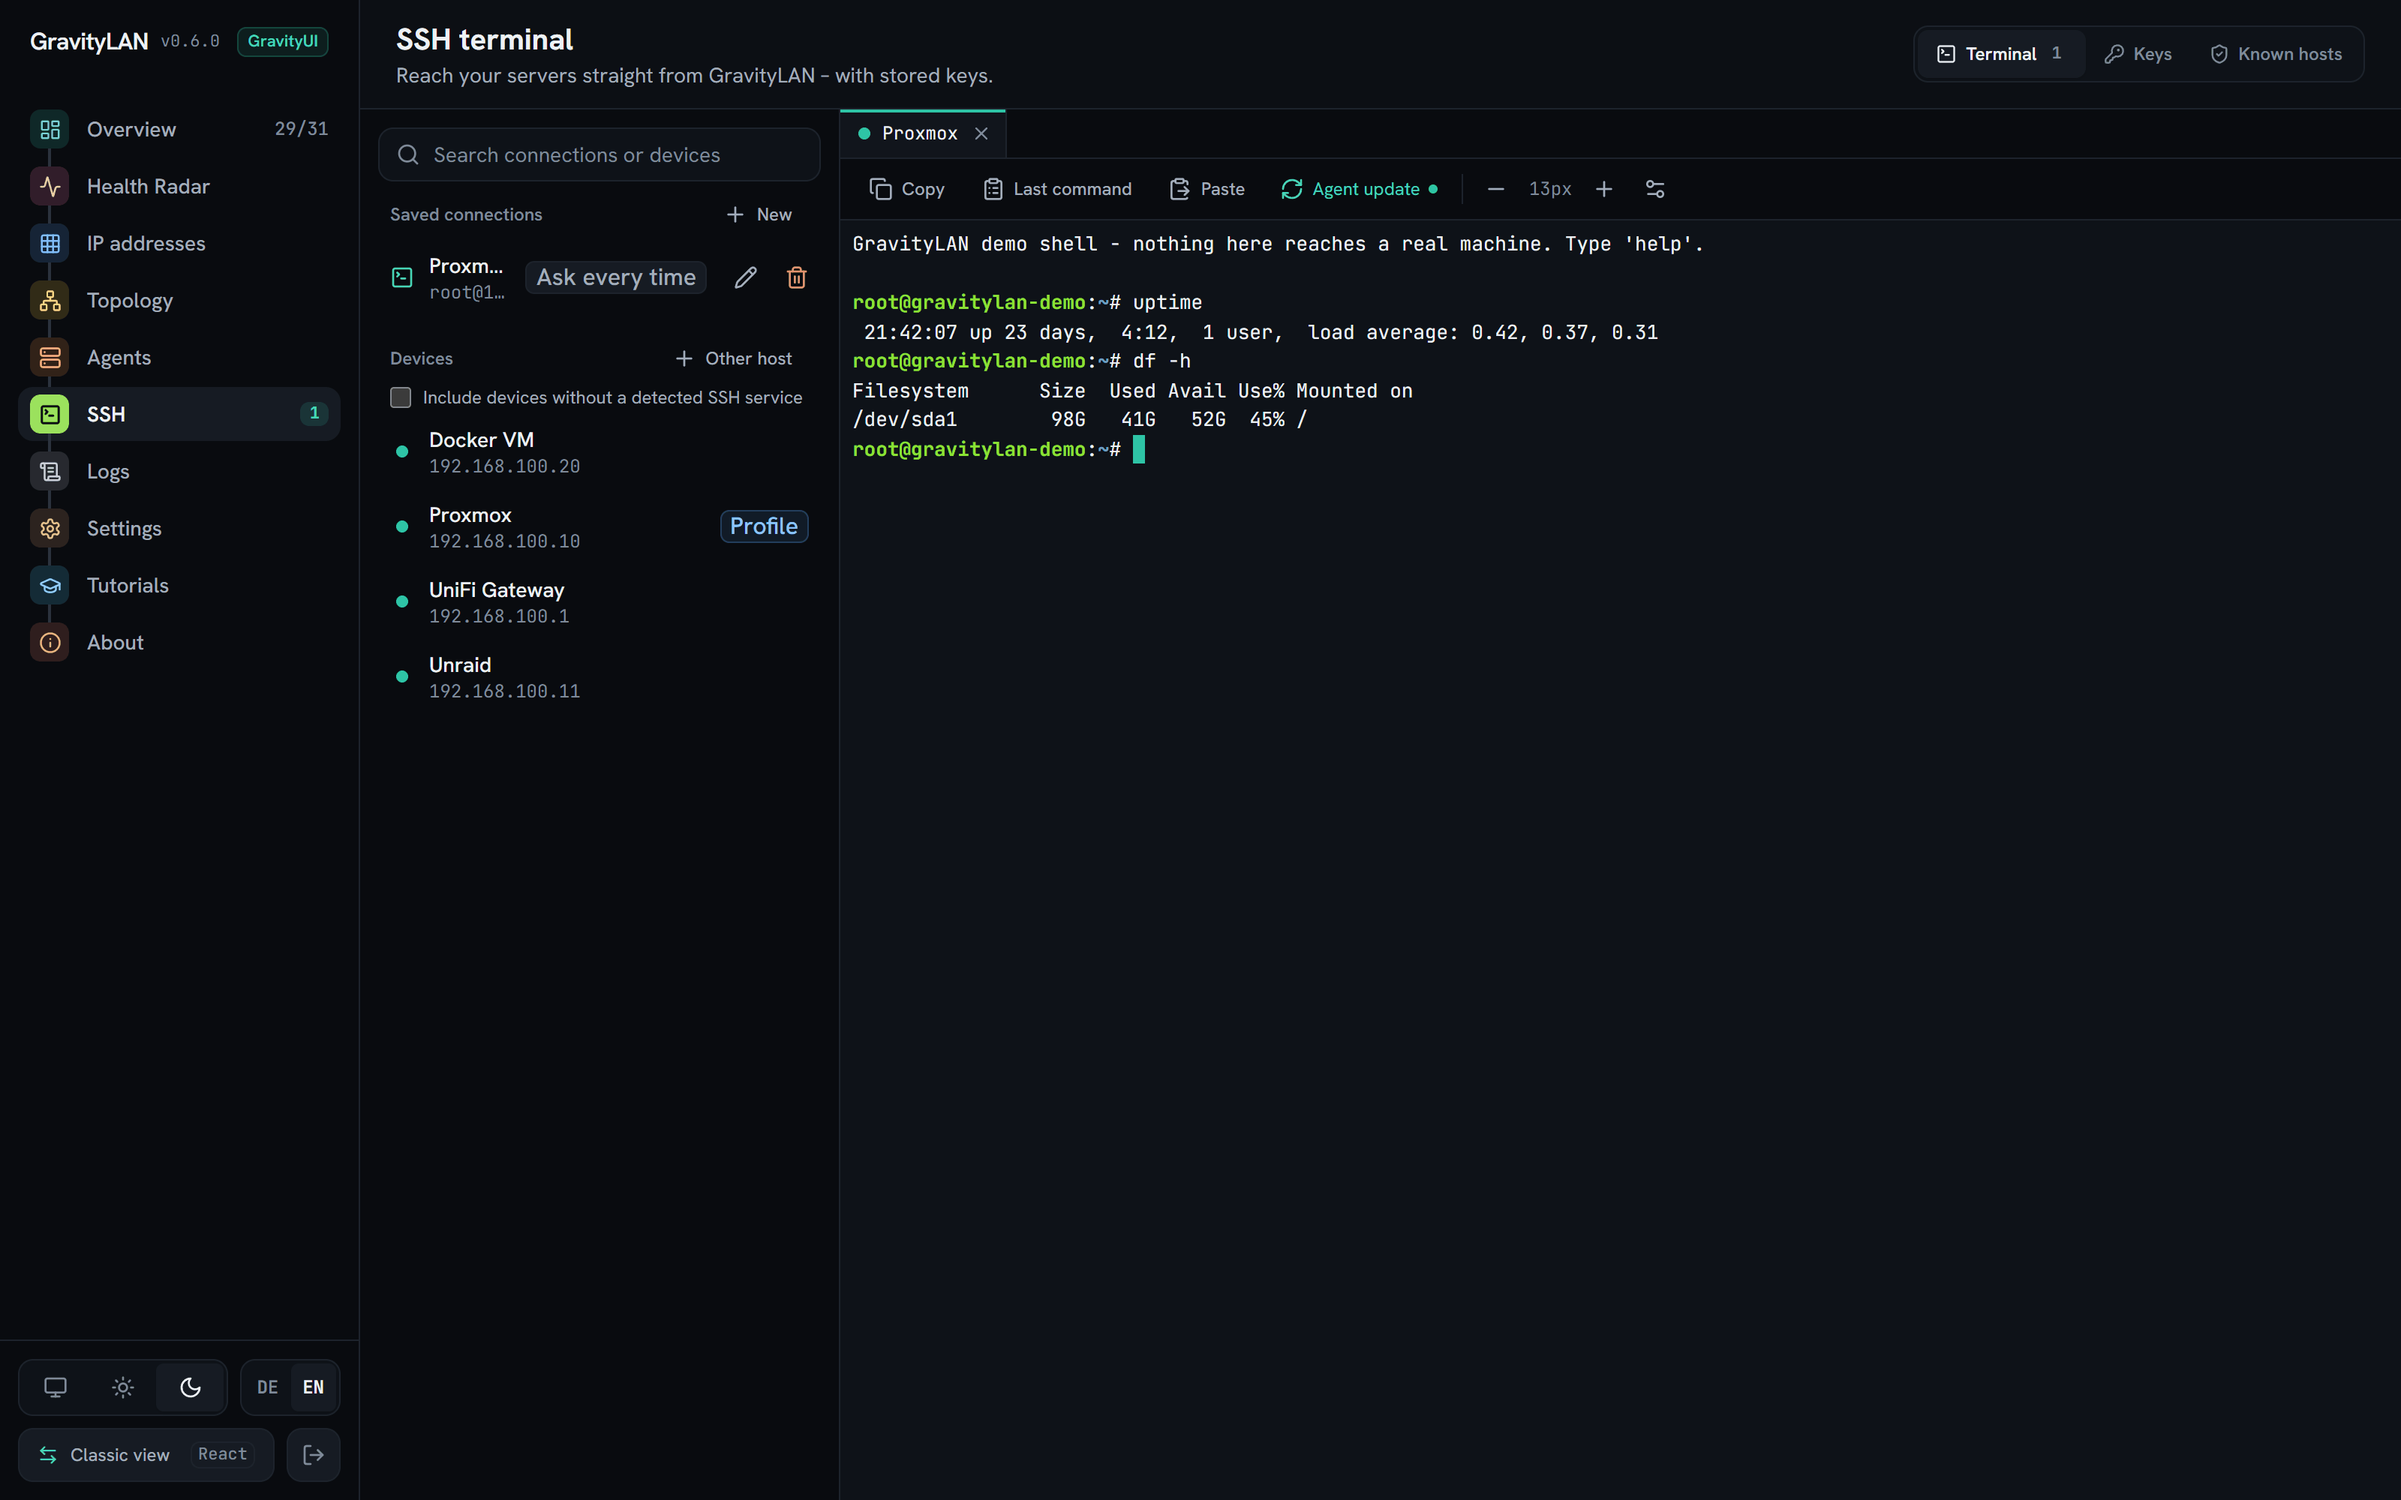
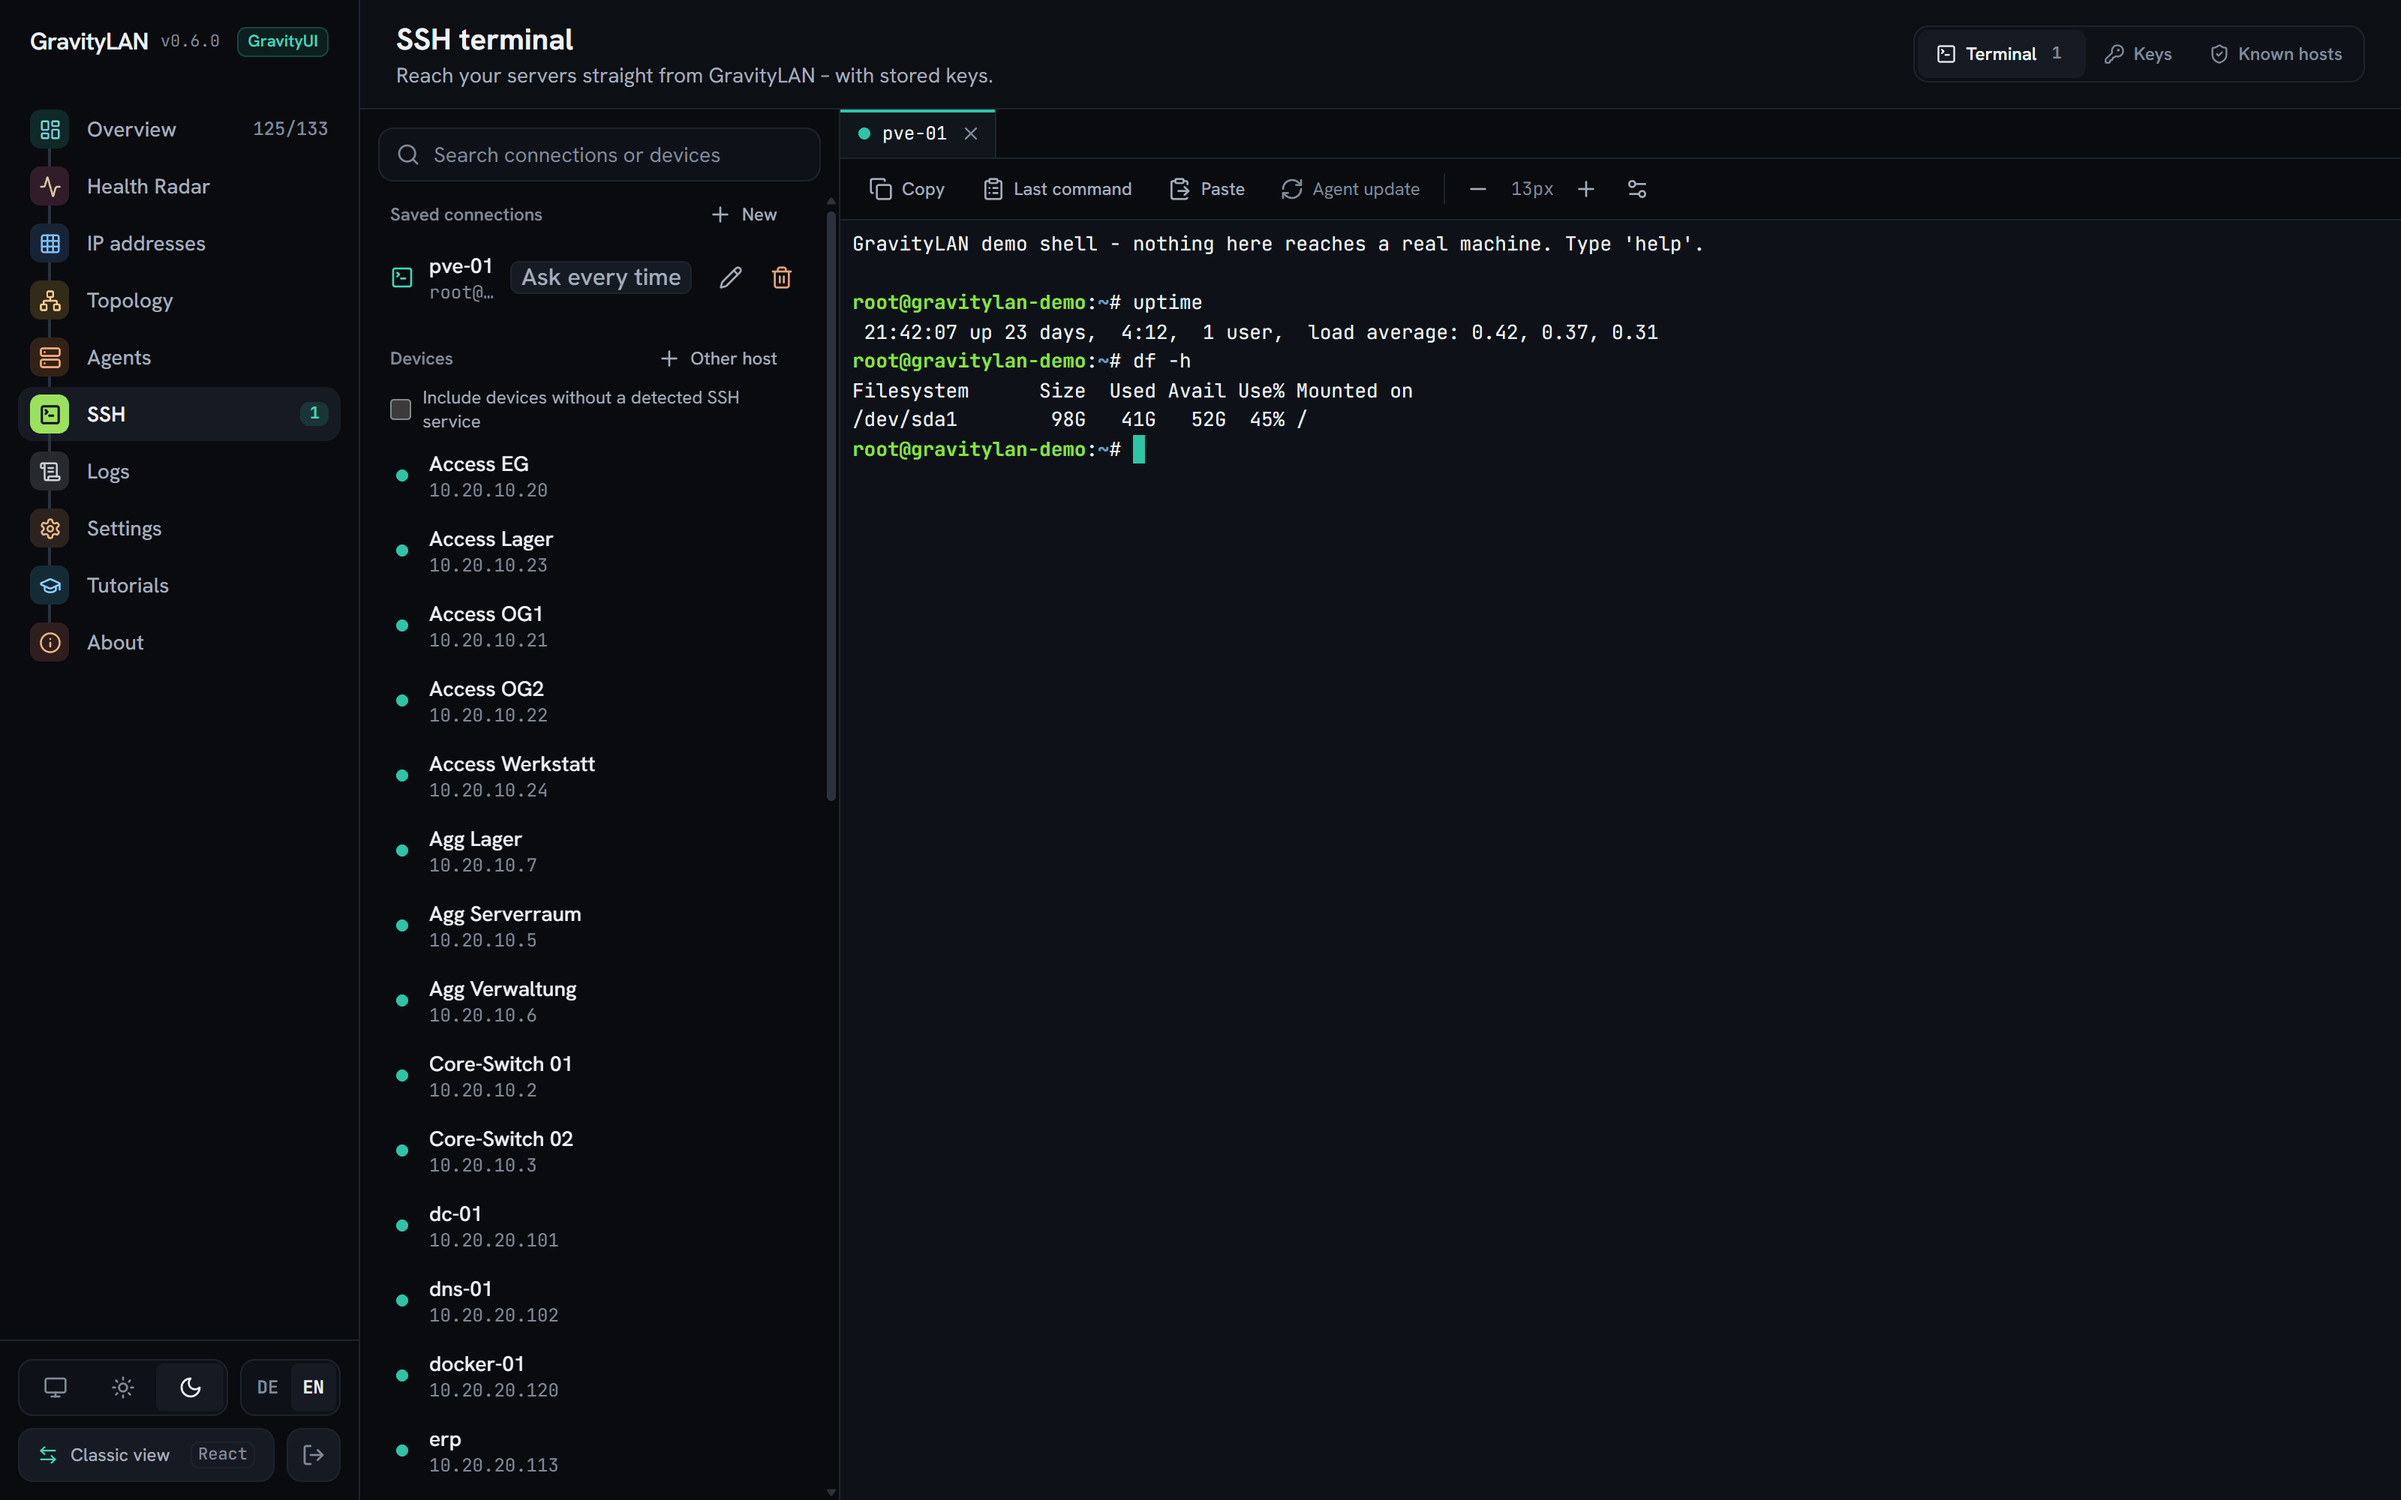
docs(readme): all GravityUI screenshots from the company demo
The overview, orbit map, Health Radar, IP addresses, agents, SSH, device
editor, settings, tutorials and phone shots showed the homelab demo;
only racks and resilience came from the company network. All 13 are now
taken from a freshly seeded `dev_demo.py --company` (133 devices, eight
VLANs, four racks, backup links) and palette-compressed as before. The
README captions, the orbit alt texts and the changelog entry name the
company demo as their source.

diff --git a/README.md b/README.md
@@ -38,11 +38,11 @@ Everything runs in **one container** on **SQLite**: a FastAPI backend, the inven
 
 ## GravityUI at a glance
 
-All screenshots use the [demo data](#development): the homelab, and the small company network for the racks and the resilience view.
+All screenshots show the company network of the [demo backend](#development) (`--company`): 133 devices in eight VLANs, a Proxmox cluster, four racks with ports and cables, and backup links.
 
 <table>
   <tr>
-    <td width="50%" valign="top"><img src="./docs/screenshots/vue/orbit.png" alt="Orbit map with the gateway as the star, switches and hosts on orbits around it and their devices as moons, offline devices marked red"><br><sub><b>Orbit map</b>: the topology as a solar system</sub></td>
+    <td width="50%" valign="top"><img src="./docs/screenshots/vue/orbit.png" alt="Orbit map of a company network with the firewall as the star, core, aggregation and access switches on orbits around it and their devices as moons, offline devices marked red"><br><sub><b>Orbit map</b>: the topology as a solar system</sub></td>
     <td width="50%" valign="top"><img src="./docs/screenshots/vue/racks.png" alt="Rack view with switches, a copper patch panel, a UPS and a power strip, cables hanging between their jacks, and the equipment list on the left"><br><sub><b>Racks</b>: faceplates, ports and cables</sub></td>
   </tr>
   <tr>
@@ -285,7 +285,7 @@ npm run dev
 
 GravityUI takes its API client, types and texts from `frontend/src`, so `frontend/` has to stay next to it even when you only work on GravityUI.
 
-**Without touching your network:** `python scripts/dev_demo.py` (in the backend virtualenv) starts the API on `127.0.0.1:8000` with a throw-away demo database, simulated agents with 24 hours of history and a fake SSH shell, but no scans. Start GravityUI as above and log in with `demo`. `--reset` seeds the demo data again, `--fresh` starts like a new install, `--company` loads a small company network instead (8 VLANs, a four-node Proxmox cluster, about 130 devices, four racks with ports and cables, backup links, own database). The screenshots in this README come from it.
+**Without touching your network:** `python scripts/dev_demo.py` (in the backend virtualenv) starts the API on `127.0.0.1:8000` with a throw-away demo database, simulated agents with 24 hours of history and a fake SSH shell, but no scans. Start GravityUI as above and log in with `demo`. `--reset` seeds the demo data again, `--fresh` starts like a new install, `--company` loads a small company network instead (8 VLANs, a four-node Proxmox cluster, about 130 devices, four racks with ports and cables, backup links, own database). The screenshots in this README come from `--company`.
 
 **Tests and checks:**
 
@@ -330,11 +330,11 @@ Alles läuft in **einem Container** auf **SQLite**: ein FastAPI-Backend, das Inv
 
 ### GravityUI im Überblick
 
-Alle Screenshots zeigen die [Demo-Daten](#entwicklung): das Homelab, für die Racks und die Ausfallsicherheit das kleine Firmennetz.
+Alle Screenshots zeigen das Firmennetz des [Demo-Backends](#entwicklung) (`--company`): 133 Geräte in acht VLANs, ein Proxmox-Cluster, vier Racks mit Ports und Kabeln und Backup-Verbindungen.
 
 <table>
   <tr>
-    <td width="50%" valign="top"><img src="./docs/screenshots/vue/orbit.png" alt="Orbit-Netzplan mit dem Gateway als Stern, Switches und Hosts auf Umlaufbahnen und ihren Geräten als Monde, ausgefallene Geräte rot markiert"><br><sub><b>Orbit-Netzplan</b>: die Topologie als Sonnensystem</sub></td>
+    <td width="50%" valign="top"><img src="./docs/screenshots/vue/orbit.png" alt="Orbit-Netzplan eines Firmennetzes mit der Firewall als Stern, Core-, Aggregations- und Access-Switches auf Umlaufbahnen und ihren Geräten als Monde, ausgefallene Geräte rot markiert"><br><sub><b>Orbit-Netzplan</b>: die Topologie als Sonnensystem</sub></td>
     <td width="50%" valign="top"><img src="./docs/screenshots/vue/racks.png" alt="Rack-Ansicht mit Switches, Kupfer-Patchfeld, USV und Steckdosenleiste, Kabel hängen zwischen den Buchsen, links die Liste zum Einbauen"><br><sub><b>Racks</b>: Frontblenden, Ports und Kabel</sub></td>
   </tr>
   <tr>
@@ -577,7 +577,7 @@ npm run dev
 
 GravityUI holt API-Client, Typen und Texte aus `frontend/src`; `frontend/` muss daneben liegen bleiben, auch wenn du nur an GravityUI arbeitest.
 
-**Ohne dein Netz anzufassen:** `python scripts/dev_demo.py` (in der Backend-venv) startet die API auf `127.0.0.1:8000` mit einer Wegwerf-Demo-Datenbank, simulierten Agenten mit 24 Stunden Verlauf und einer Demo-Shell für SSH, aber ohne Scans. GravityUI wie oben starten, Passwort `demo`. `--reset` befüllt die Demo-Daten neu, `--fresh` startet wie eine Neuinstallation, `--company` lädt stattdessen ein kleines Firmennetz (8 VLANs, Proxmox-Cluster mit vier Knoten, rund 130 Geräte, vier Racks mit Ports und Kabeln, Backup-Verbindungen, eigene Datenbank). Die Screenshots in dieser README stammen daraus.
+**Ohne dein Netz anzufassen:** `python scripts/dev_demo.py` (in der Backend-venv) startet die API auf `127.0.0.1:8000` mit einer Wegwerf-Demo-Datenbank, simulierten Agenten mit 24 Stunden Verlauf und einer Demo-Shell für SSH, aber ohne Scans. GravityUI wie oben starten, Passwort `demo`. `--reset` befüllt die Demo-Daten neu, `--fresh` startet wie eine Neuinstallation, `--company` lädt stattdessen ein kleines Firmennetz (8 VLANs, Proxmox-Cluster mit vier Knoten, rund 130 Geräte, vier Racks mit Ports und Kabeln, Backup-Verbindungen, eigene Datenbank). Die Screenshots in dieser README stammen aus `--company`.
 
 **Tests und Prüfungen:**
 

diff --git a/CHANGELOG.md b/CHANGELOG.md
@@ -5,7 +5,7 @@ All notable changes to this project will be documented in this file.
 ## [Unreleased]
 
 ### Changed
-- README (English and German) rewritten around GravityUI. New screenshots of the current GravityUI from the demo data in `docs/screenshots/vue/`: overview, orbit map, racks, Health Radar, resilience, IP addresses, agents, SSH, device editor, settings, tutorials and two phone views (the homelab, the company demo for racks and resilience), palette-compressed like before. The features are grouped by GravityUI page and by what runs underneath, the quick start opens `/frontend-vue/` and names Settings → System → Default interface, and the classic React interface gets a short section of its own with how to switch and what [ADR-003](docs/adr/003-react-retirement.md) plans for it. The Unraid template's orbit screenshot is the new one too.
+- README (English and German) rewritten around GravityUI. New screenshots of the current GravityUI from the demo data in `docs/screenshots/vue/`: overview, orbit map, racks, Health Radar, resilience, IP addresses, agents, SSH, device editor, settings, tutorials and two phone views, all from the company demo (`--company`), palette-compressed like before. The features are grouped by GravityUI page and by what runs underneath, the quick start opens `/frontend-vue/` and names Settings → System → Default interface, and the classic React interface gets a short section of its own with how to switch and what [ADR-003](docs/adr/003-react-retirement.md) plans for it. The Unraid template's orbit screenshot is the new one too.
 
 ## [0.6.0] - 2026-10-29
 
